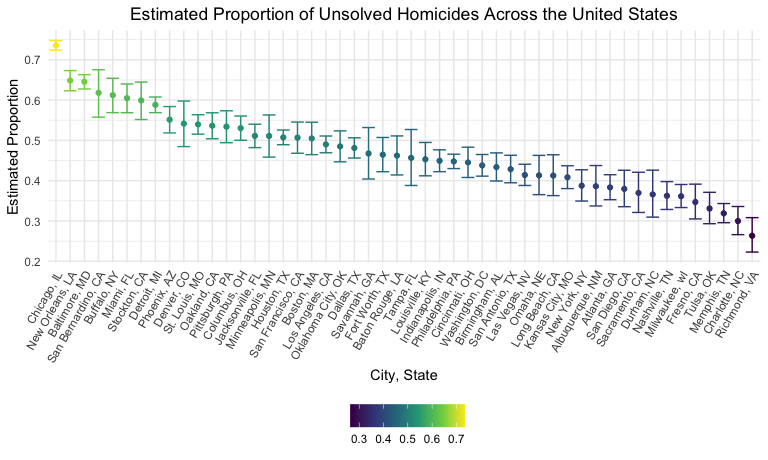
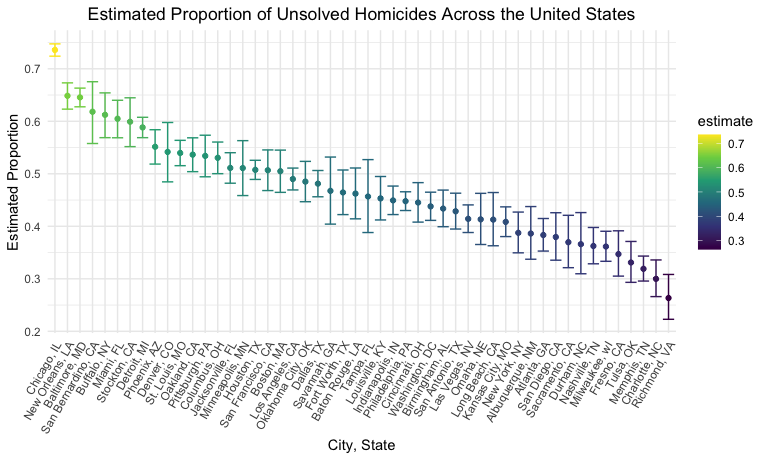
Amended write up and fixed legend position

diff --git a/p8105_hw5_els2250.md b/p8105_hw5_els2250.md
@@ -113,22 +113,13 @@ homicide (i.e., “Closed without arrest”, “Closed with arrest”, and
 “Open/No arrest”). There is no missing data except for 60 missing values
 in `lat` and 60 missing values in `lon`.
 
-It’s important to note that there are Albuquerque, Atlanta, Baltimore,
-Baton Rouge, Birmingham, Boston, Buffalo, Charlotte, Chicago,
-Cincinnati, Columbus, Dallas, Denver, Detroit, Durham, Fort Worth,
-Fresno, Houston, Indianapolis, Jacksonville, Kansas City, Las Vegas,
-Long Beach, Los Angeles, Louisville, Memphis, Miami, Milwaukee,
-Minneapolis, Nashville, New Orleans, New York, Oakland, Oklahoma City,
-Omaha, Philadelphia, Phoenix, Pittsburgh, Richmond, San Antonio,
-Sacramento, Savannah, San Bernardino, San Diego, San Francisco,
-St. Louis, Stockton, Tampa, Tulsa, Washington cities depicted in the
-dataset currently, rather than the 50 that were indicated originally.
-This discrepancy is most likely related to the city Tulsa being listed
-in two states (Alabama and Oklahoma). There is only one homicide
-reported for Tulsa, AL, which suggests that this entry was a data entry
-error. Since we don’t want to make any assumptions regarding the
-homicidal data, Tulsa, AL will be removed from the dataframe for further
-analysis.
+It’s important to note that there are 51 cities depicted in the dataset
+currently, rather than the 50 that were indicated originally. This
+discrepancy is most likely related to the city Tulsa being listed in two
+states (Alabama and Oklahoma). There is only one homicide reported for
+Tulsa, AL, which suggests that this entry was a data entry error. Since
+we don’t want to make any assumptions regarding the homicidal data,
+Tulsa, AL will be removed from future analyses.
 
 ### Summarizing total number of homicides and number of unsolved homicides
 
@@ -341,7 +332,7 @@ city_state_hom_prop %>%
   ) + 
   theme(plot.title = element_text(hjust = 0.5),
         axis.text.x = element_text(angle = 60, hjust = 1),
-        legend.title = element_blank())
+        legend.position = 'right')
 ```
 
 <img src="p8105_hw5_els2250_files/figure-gfm/unnamed-chunk-9-1.png" width="90%" />
@@ -430,7 +421,6 @@ problem_3_df %>%
   ) %>% 
   ggplot(aes(x = mu, y = power)) + 
   geom_point() +
-  geom_smooth(size = 0.5, color = "black", se = FALSE) + 
   labs(
     title = "Proportion of Times the Null is Rejected \n vs. True Value of Mu",
     x = "True value of mu",
@@ -438,8 +428,6 @@ problem_3_df %>%
   ) +
   theme(plot.title = element_text(hjust = 0.5))
 ```
-
-    ## `geom_smooth()` using method = 'gam' and formula 'y ~ s(x, bs = "cs")'
 
 <img src="p8105_hw5_els2250_files/figure-gfm/unnamed-chunk-12-1.png" width="90%" />
 
